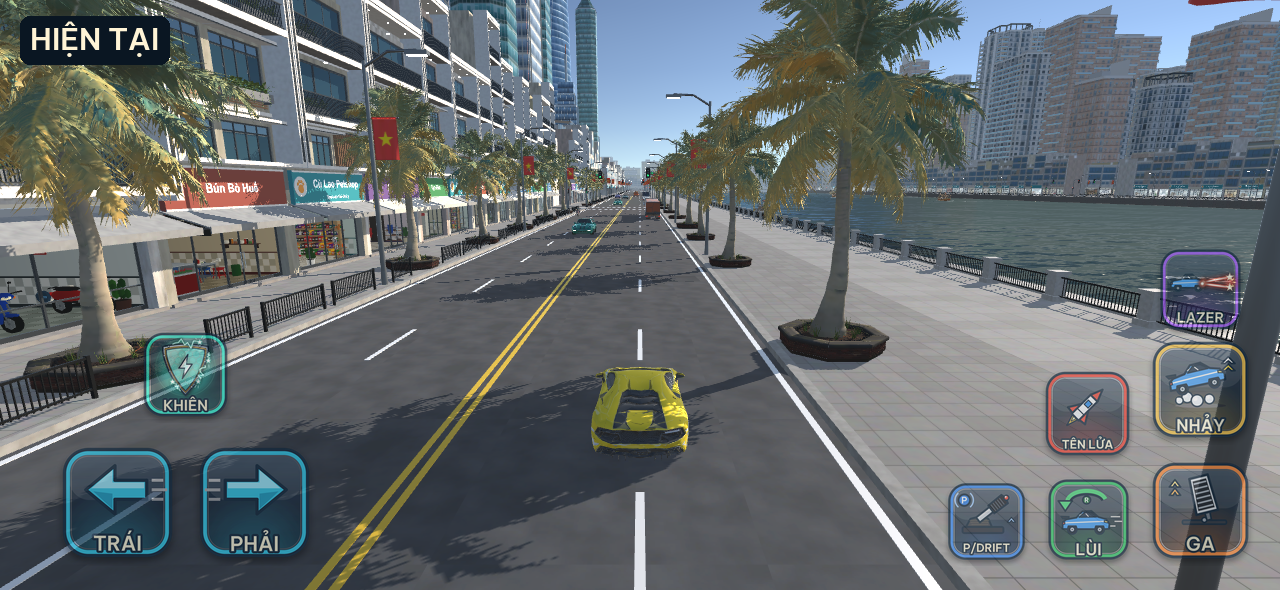
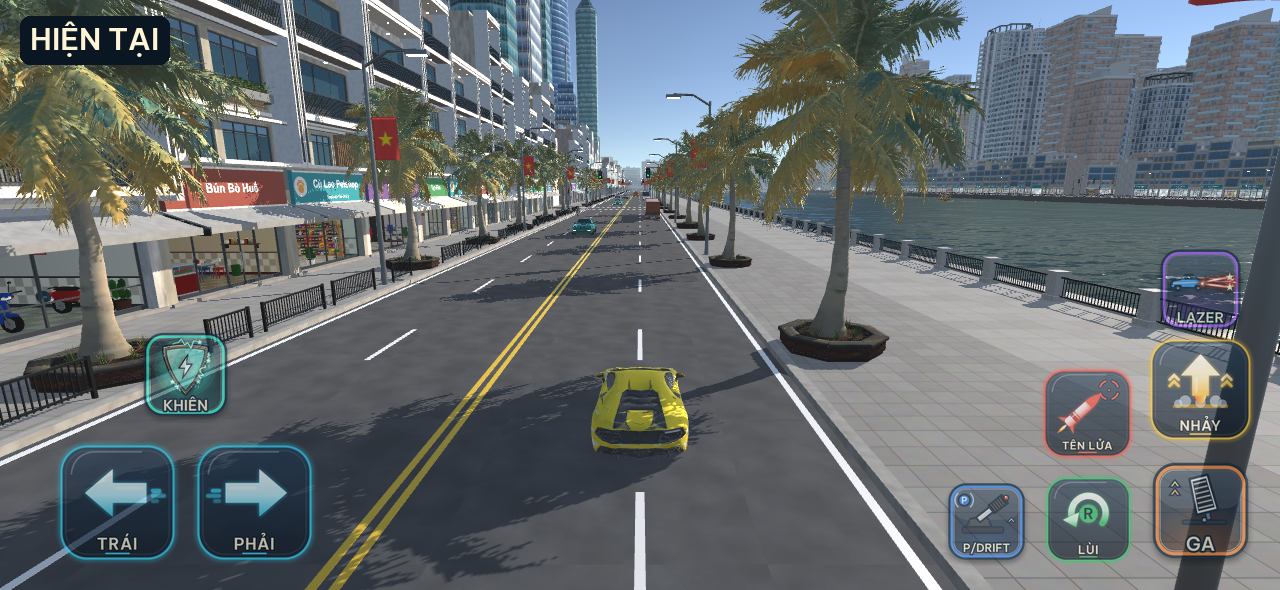
Pho Viet 21.338: style A touch buttons in game; three laser button options
Left/Right/Missile/Jump/Reverse now exported from the SVG mockup (style A, curved R reverse)
via xuat_game.sh; build_touch_controls.py no longer overwrites them. Laser gets three new
designs awaiting the user's pick.

Changed region(s): [[0.8125, 0.5492, 1.0, 0.9763], [0.0312, 0.7322, 0.25, 0.9763]]

diff --git a/ArtSource/Concepts/Buttons-20261123/nut.html b/ArtSource/Concepts/Buttons-20261123/nut.html
@@ -75,7 +75,68 @@ function star(cx, cy, r1, r2, n, rot = 0) {
   for (let i = 0; i < n * 2; i++) { const r = i % 2 ? r2 : r1, a = rot + i * Math.PI / n; p.push((cx + r * Math.cos(a)).toFixed(1) + ',' + (cy + r * Math.sin(a)).toFixed(1)); }
   return p.join(' ');
 }
+// 21.338 — LAZER vẽ lại (người dùng: bản 21.337 «quá xấu»). ?lz=1|2|3
+//   1 «Lõi năng lượng»: quả cầu năng lượng có vành khía, bắn 1 tia lớn + 2 tia mảnh, nổ chớp ở đầu tia.
+//   2 «Súng lazer»: súng khoa học viễn tưởng nhìn ngang, nòng có vòng tản nhiệt, bắn tia sang phải.
+//   3 «Hai tia hội tụ»: 2 thấu kính phát (như 2 đèn pha) bắn 2 tia hội tụ vào tâm vòng ngắm, nổ tung.
+function beam(x1, y1, x2, y2, w) {
+  return `<line x1="${x1}" y1="${y1}" x2="${x2}" y2="${y2}" stroke="#ff2f45" stroke-width="${w * 2.6}" stroke-linecap="round" opacity=".38" filter="url(#soft)"/>
+    <line x1="${x1}" y1="${y1}" x2="${x2}" y2="${y2}" stroke="#ff3b4f" stroke-width="${w}" stroke-linecap="round"/>
+    <line x1="${x1}" y1="${y1}" x2="${x2}" y2="${y2}" stroke="#fff" stroke-width="${Math.max(4, w * .36)}" stroke-linecap="round"/>`;
+}
+function burst(x, y, r) {
+  let s = `<circle cx="${x}" cy="${y}" r="${r * 1.25}" fill="#ff4f5f" opacity=".45" filter="url(#soft)"/>`;
+  s += `<polygon points="${star(x, y, r, r * .32, 8, .2)}" fill="#ffe9a8" stroke="#ff6a2e" stroke-width="5" stroke-linejoin="round"/>`;
+  s += `<circle cx="${x}" cy="${y}" r="${r * .26}" fill="#fff"/>`;
+  [[-.9, -.5], [.4, -1], [1, .3], [-.3, 1]].forEach(([dx, dy], i) => s += `<circle cx="${x + dx * r * 1.45}" cy="${y + dy * r * 1.45}" r="${5 + (i % 2) * 3}" fill="#ffd27a"/>`);
+  return s;
+}
 function iconLaser(P, b) {
+  const v = Q.get('lz') || '1';
+  let s = '';
+  if (v === '1') {
+    s += beam(206, 240, 432, 128, 26);
+    s += beam(206, 240, 420, 214, 9);
+    s += beam(206, 240, 396, 64, 9);
+    s += burst(436, 126, 46);
+    // vành khía quanh lõi
+    s += `<circle cx="170" cy="258" r="96" fill="${b.dark}" fill-opacity=".55" ${P.m.includes('filter') ? 'filter="url(#glow' + MAU + 'laser)"' : ''}/>`;
+    for (let i = 0; i < 8; i++) { const a = i * Math.PI / 4 + .39; s += `<rect x="-14" y="-104" width="28" height="30" rx="8" ${P.m} transform="translate(170 258) rotate(${(a * 180 / Math.PI).toFixed(1)})"/>`; }
+    s += `<circle cx="170" cy="258" r="74" ${P.m}/>`;
+    s += `<circle cx="170" cy="258" r="52" fill="${b.dark}"/>`;
+    s += `<circle cx="170" cy="258" r="40" fill="#ff3b4f" filter="url(#soft)"/>`;
+    s += `<circle cx="170" cy="258" r="30" fill="#ff5a6a"/><circle cx="160" cy="248" r="14" fill="#fff"/>`;
+    s += `<path d="M118,206 A74,74 0 0 1 222,206" fill="none" stroke="#fff" stroke-opacity=".6" stroke-width="8" stroke-linecap="round"/>`;
+  } else if (v === '2') {
+    s += beam(372, 196, 470, 196, 24);
+    s += burst(458, 196, 40);
+    s += `<g>
+      <path d="M150,262 L214,262 L236,350 Q238,366 222,366 L176,366 Q160,366 158,350 Z" ${P.m}/>
+      <path d="M86,180 Q86,150 116,150 L300,150 Q326,150 334,170 L346,206 Q350,228 326,232 L300,236 L300,262 L116,262 Q86,262 86,232 Z" ${P.m}/>
+      <rect x="296" y="174" width="70" height="44" rx="10" ${P.m}/>
+      <rect x="306" y="168" width="12" height="56" rx="6" ${P.a}/><rect x="328" y="168" width="12" height="56" rx="6" ${P.a}/>
+      <circle cx="372" cy="196" r="22" fill="#ff3b4f" stroke="${NAVY}" stroke-width="6"/><circle cx="372" cy="196" r="10" fill="#fff"/>
+      <rect x="112" y="184" width="150" height="26" rx="13" ${P.a}/>
+      <circle cx="138" cy="197" r="7" fill="#fff"/><circle cx="162" cy="197" r="7" fill="#fff" opacity=".6"/>
+      <path d="M110,164 L290,164" stroke="#fff" stroke-opacity=".6" stroke-width="8" stroke-linecap="round"/>
+      <path d="M200,262 Q206,300 186,306" fill="none" stroke="${NAVY}" stroke-width="8" stroke-linecap="round" opacity=".7"/></g>`;
+  } else {
+    // vòng ngắm
+    s += `<circle cx="384" cy="214" r="70" fill="none" stroke="${b.acc}" stroke-width="12" stroke-dasharray="70 40" filter="url(#glow${MAU}laser)"/>`;
+    s += beam(168, 128, 384, 214, 18) + beam(168, 304, 384, 214, 18);
+    s += burst(384, 214, 50);
+    [[128, 304], [128, 128]].forEach(([y0, y1], i) => {
+      const y = i ? 128 : 304;
+      s += `<g transform="translate(130 ${y})">
+        <rect x="-62" y="-50" width="84" height="100" rx="26" ${P.m}/>
+        <circle cx="36" cy="0" r="44" ${P.m}/>
+        <circle cx="38" cy="0" r="30" fill="${b.dark}"/>
+        <circle cx="40" cy="0" r="22" fill="#ff3b4f"/><circle cx="34" cy="-7" r="9" fill="#fff"/></g>`;
+    });
+  }
+  return s;
+}
+function iconLaserOld(P, b) {
   let s = '';
   // đầu phát: khối lục giác + thấu kính, chĩa lên phải
   s += `<g transform="translate(150 300) rotate(-28)">
@@ -134,6 +195,22 @@ function iconJump(P) {
   return s;
 }
 function iconReverse(P, b) {
+  // 21.338: người dùng chọn kiểu cung tròn ngược chiều kim đồng hồ + huy hiệu R (bản đầu của 21.337)
+  if (Q.get('lui') === 'xuong') return iconReverseDown(P, b);
+  const cx = 256, cy = 222, r = 118, a0 = 35 * Math.PI / 180, end = 155 * Math.PI / 180;
+  const x0 = cx + r * Math.cos(a0), y0 = cy + r * Math.sin(a0), xe = cx + r * Math.cos(end), ye = cy + r * Math.sin(end);
+  const d = `M${x0.toFixed(1)},${y0.toFixed(1)} A${r},${r} 0 1 0 ${xe.toFixed(1)},${ye.toFixed(1)}`;
+  let s = '';
+  if (P.under(44)) s += `<path d="${d}" ${P.under(44)}/>`;
+  s += `<path d="${d}" ${P.line(44)}/>`;
+  const tx = Math.sin(end), ty = -Math.cos(end), nx = -ty, ny = tx, L = 84, W = 62;   // đầu mũi tên theo tiếp tuyến cuối cung
+  const tip = [xe + tx * L * .62, ye + ty * L * .62], bl = [xe - tx * L * .38 + nx * W, ye - ty * L * .38 + ny * W], br = [xe - tx * L * .38 - nx * W, ye - ty * L * .38 - ny * W];
+  s += `<polygon points="${[tip, bl, br].map(p => p.map(v => v.toFixed(1)).join(',')).join(' ')}" ${P.m}/>`;
+  s += `<circle cx="${cx}" cy="${cy + 4}" r="62" ${P.a}/>`;
+  s += `<text x="${cx}" y="${cy + 42}" text-anchor="middle" font-family="BVP" font-size="104" fill="${NAVY}">R</text>`;
+  return s;
+}
+function iconReverseDown(P, b) {
   // mũi tên xuống (lùi về sau) + chữ R số lùi trên thân — cùng ngôn ngữ với mũi tên TRÁI/PHẢI/NHẢY
   let s = '';
   s += `<polygon points="256,366 374,236 306,236 306,104 206,104 206,236 138,236" ${P.m}/>`;

diff --git a/ArtSource/Concepts/Buttons-20261123/ghep.py b/ArtSource/Concepts/Buttons-20261123/ghep.py
@@ -55,3 +55,31 @@ y = 0
 for r in rows: tb.paste(r, (0, y)); y += r.height
 tb.save(os.path.join(HERE, 'out', 'bangnut.jpg'), quality=92)
 print('ok')
+
+
+# 21.338 — 3 kiểu LAZER mới (?lz=1|2|3) trên bộ mẫu A đã đưa vào game (raw/game-*.png): python -X utf8 ghep.py lazer
+def compose_laser():
+    names = {1: 'KIỂU 1 · LÕI NĂNG LƯỢNG', 2: 'KIỂU 2 · SÚNG LAZER', 3: 'KIỂU 3 · HAI TIA HỘI TỤ'}
+    game = {'left': 'Left', 'right': 'Right', 'missile': 'Missile', 'jump': 'Jump', 'reverse': 'Reverse'}
+    panels = []
+    for v in (1, 2, 3):
+        img = Image.open(os.path.join(HERE, 'raw', 'nen.png')).convert('RGBA').resize((W, H))
+        for k, box in (('gas', gas), ('stop', stop), ('shield', shield)):
+            put(img, Image.open(os.path.join(RES, f'PV_Btn_{KEEP[k]}.png')), box)
+        for k, box in NEW.items():
+            src = os.path.join(HERE, 'raw', f'A-laser-lz{v}.png') if k == 'laser' else os.path.join(HERE, 'raw', f'game-{game[k]}.png')
+            put(img, Image.open(src), box)
+        # phóng to nút LAZER ở góc trái trên
+        big = Image.open(os.path.join(HERE, 'raw', f'A-laser-lz{v}.png')).convert('RGBA').resize((250, 250), Image.LANCZOS)
+        d = ImageDraw.Draw(img); d.rounded_rectangle((18, 80, 18 + 270, 80 + 270), 18, fill=(20, 26, 32, 215)); img.alpha_composite(big, (28, 90))
+        f = ImageFont.truetype(FONT, 30); t = names[v]
+        d.rounded_rectangle((18, 16, 38 + d.textlength(t, font=f), 64), 10, fill=(10, 22, 34, 225)); d.text((28, 20), t, font=f, fill=(255, 244, 214))
+        panels.append(img.convert('RGB'))
+    sheet = Image.new('RGB', (W, H * 3 + 24), (20, 24, 28))
+    for i, im in enumerate(panels): sheet.paste(im, (0, i * (H + 12)))
+    sheet.save(os.path.join(HERE, 'out', 'lazer-3kieu.jpg'), quality=90)
+    print('ok lazer')
+
+
+if __name__ == '__main__' and len(__import__('sys').argv) > 1 and __import__('sys').argv[1] == 'lazer':
+    compose_laser()

diff --git a/AgentScripts/Buttons21338.cs b/AgentScripts/Buttons21338.cs
@@ -1,0 +1,24 @@
+using UnityEditor;
+using UnityEngine;
+using PhoViet.OpenWorld;
+// 21.338 — nút cảm ứng mẫu A: nhập lại ảnh Resources/TouchControls (xuất ngoài Unity bằng xuat_game.sh) + bật nút cảm ứng để chụp.
+//   Reimport (Edit mode) → Play → Show (bắt đầu lượt, hiện nút, bỏ tạm dừng) → capture_game_view source=screen → End
+public static class Buttons21338
+{
+    public static string Reimport()
+    {
+        foreach (var n in new[] { "Left", "Right", "Missile", "Jump", "Reverse", "Laser" })
+            AssetDatabase.ImportAsset("Assets/PhoViet/Resources/TouchControls/PV_Btn_" + n + ".png", ImportAssetOptions.ForceUpdate | ImportAssetOptions.ForceSynchronousImport);
+        var t = AssetDatabase.LoadAssetAtPath<Texture2D>("Assets/PhoViet/Resources/TouchControls/PV_Btn_Left.png");
+        return "ok " + (t ? t.width + "x" + t.height + " " + t.format : "missing");
+    }
+    public static string Show()
+    {
+        var g = Object.FindAnyObjectByType<OpenWorldGame>(); var p = Object.FindAnyObjectByType<OpenWorldDriver>();
+        OpenWorldWeather.ForceNext = false; g.GoReady(); g.StartRun();
+        foreach (var pol in Object.FindObjectsByType<OpenWorldPolice>(FindObjectsInactive.Exclude)) pol.enabled = false;
+        p.testTouchUI = true; EditorApplication.isPaused = false;
+        return "mode " + g.Mode + " touch " + p.TouchControlsVisible;
+    }
+    public static void End() { var p = Object.FindAnyObjectByType<OpenWorldDriver>(); if (p) p.testTouchUI = false; }
+}

diff --git a/ArtSource/UI/build_touch_controls.py b/ArtSource/UI/build_touch_controls.py
@@ -378,12 +378,18 @@ def build_button(name, text, accent_hex, icon, size_frac, final=FINAL):
     return img.resize((final, final), Image.LANCZOS)
 
 
+# 21.338 (người dùng chọn mẫu A «Kính neon»): 5 nút này nay xuất từ ArtSource/Concepts/Buttons-20261123/nut.html (xuat_game.sh),
+# KHÔNG ghi đè ở đây nữa. Chỉ GA và P/DRIFT còn vẽ bằng script này.
+SVG_BUTTONS = {'Left', 'Right', 'Reverse', 'Jump', 'Missile'}
+
+
 def main():
     os.makedirs(OUT, exist_ok=True)
     # 21.270: vô lăng thay bằng 2 nút mũi tên trái/phải (build_wheel giữ lại để tham khảo, không xuất nữa).
     sheet = Image.new('RGBA', (330 * len(BUTTONS), 320), (70, 80, 90, 255))
     for i, (name, text, acc, icon, sf) in enumerate(BUTTONS):
-        im = build_button(name, text, acc, icon, sf); im.save(os.path.join(OUT, 'PV_Btn_%s.png' % name), optimize=True)
+        im = build_button(name, text, acc, icon, sf)
+        if name not in SVG_BUTTONS: im.save(os.path.join(OUT, 'PV_Btn_%s.png' % name), optimize=True)
         sheet.alpha_composite(im.resize((320, 320), Image.LANCZOS), (i * 330, 0))
     prev = os.path.join(ROOT, 'ArtSource', 'UI', 'touch_controls_preview.png')
     sheet.save(prev)

diff --git a/BANGIAO.md b/BANGIAO.md
@@ -4,7 +4,7 @@
 >
 > Ai vừa sửa/thêm chức năng, build hoặc phát hành **phải cập nhật file này trong cùng công việc** (mục 1–3 và 6), song song với ghi chi tiết vào `huongdan.md`.
 
-Cập nhật lần cuối: **23/11/2026 — Claude Code (21.337 mẫu nút mới chờ chọn; 21.336 xe tăng nổ tung, xe vàng, NPC né sét — source, chưa phát hành; 1.92.0 = 21.327–21.331)**
+Cập nhật lần cuối: **23/11/2026 — Claude Code (21.338 5 nút mẫu A vào game, LAZER chờ chọn kiểu; 21.337 mẫu nút; 21.336 xe tăng nổ tung, xe vàng, NPC né sét — source, chưa phát hành; 1.92.0 = 21.327–21.331)**
 
 ## 1. Trạng thái hiện tại
 
@@ -63,6 +63,7 @@ Cập nhật lần cuối: **23/11/2026 — Claude Code (21.337 mẫu nút mới
 
 ## 2. Việc vừa làm gần nhất (mới nhất ở trên)
 
+- **21.338 (source, chưa phát hành):** người dùng chọn mẫu A «Kính neon» → 5 nút TRÁI/PHẢI/TÊN LỬA/NHẢY/LÙI (LÙI kiểu cung tròn + R) đã thay `Resources/TouchControls/PV_Btn_*.png` bằng `ArtSource/Concepts/Buttons-20261123/xuat_game.sh`; `build_touch_controls.py` không ghi đè 5 nút này nữa. 3 kiểu LAZER mới (`?lz=1|2|3`, `out/lazer-3kieu.jpg`). Chi tiết `huongdan.md` 21.338.
 - **21.337 (mẫu, chưa vào game):** 3 mẫu vẽ lại 6 nút TRÁI/PHẢI/LAZER/TÊN LỬA/NHẢY/LÙI không có ô tô — A «Kính neon», B «Tem đua», C «Huy hiệu tròn» — `ArtSource/Concepts/Buttons-20261123/` (`nut.html`, `render.sh`, `ghep.py`, `out/tonghop.jpg`). Chi tiết `huongdan.md` 21.337.
 - **21.336 (source, chưa phát hành):** xe tăng trúng tên lửa/Lazer nổ tung thành mảnh và biến mất (`DestroyTank`, gốc dọn sau 2 s); xe người chơi màu vàng (`AgentScripts/recolor_player_yellow.py` tô lại `PV_BlueSupercar_Palette.png`); xe NPC nhận biết vòng cảnh báo sét để phanh trước vòng, vọt qua hoặc thoát ra (`OpenWorldTraffic.DodgeStrikes`, `OpenWorldWeather` gọi `WarnStrike`). Thử 40 đợt sét: NPC trúng 9 → 3 (còn lại là xe kẹt đứng yên). `AgentScripts/Test21336.cs`. Chi tiết `huongdan.md` 21.336.
 - **21.335 — web 1.92.0 (vỏ mới):** sửa nút Cài tràn chữ khi điện thoại xoay ngang (`#install{font-size:0}` cho mọi điện thoại), bỏ vạch đỏ cạnh logo, «Bản cập nhật» thu gọn khi mở trang (bỏ `open`). Cache `e54a7b98c09942d6`; commit `fb9f4b7`, Pages `45133572057`, live 38/38 khớp. Chi tiết `huongdan.md` 21.335.
@@ -508,7 +509,7 @@ Cập nhật lần cuối: **23/11/2026 — Claude Code (21.337 mẫu nút mới
 
 ## 3. Đang dở / cần người dùng quyết
 
-- **21.337 chờ chọn mẫu nút (A/B/C):** chọn xong → xuất 6 ảnh `Resources/TouchControls/PV_Btn_*.png` 512² từ `nut.html` (Chrome headless, nền trong suốt), thử Simulator; hỏi đổi theo GA/P/DRIFT/KHIÊN + ảnh nút trang chủ không.
+- **21.338 chờ chọn kiểu LAZER (1 lõi năng lượng / 2 súng lazer / 3 hai tia hội tụ):** chọn xong → `cd ArtSource/Concepts/Buttons-20261123 && sh xuat_game.sh laser <kiểu>` → `run_script AgentScripts/Buttons21338.cs Buttons21338.Reimport`. Rồi hỏi vẽ lại GA/P/DRIFT/KHIÊN theo mẫu A + ảnh nút trang chủ không.
 - **21.336 chưa phát hành:** xe tăng nổ tung, xe vàng, NPC né sét đã commit source; cần «Phát hành» để lên web (dùng `ReleaseBuild.cs`). Hình xe trên nút NHẢY và ảnh nút trang chủ vẫn là xe xanh — hỏi người dùng có đổi sang vàng không.
 - **Chờ người dùng (1.92.0):** thử trên iPhone: trang chủ mẫu C (chạm LÊN XE THÔI, bánh răng, Cách chơi, Thêm vào màn hình), Ga tự động, 2 tên lửa, Lazer bấm 1 lần, lái gốc.
 - **Lái gốc tạm thời (21.329, có trong web 1.92.0):** `classicSteer = true` để người dùng so sánh. Chờ người dùng nói giữ hay trả lại lái 21.316–21.319 (`classicSteer = false`).
@@ -731,7 +732,7 @@ Cập nhật lần cuối: **23/11/2026 — Claude Code (21.337 mẫu nút mới
 | Khiên năng lượng (nút KHIÊN, 6 s / hồi 10 s từ 21.313, phá lưới) + trúng đạn cháy nổ | **21.312** | `Scripts/OpenWorld/OpenWorldShield.cs`, `OpenWorldNetShatter.cs`, `OpenWorldDriver.cs` (`ShieldRect`, `Shielded`, `ShieldBump`, `Ignite`, `BlastUp`), `OpenWorldPoliceNet.cs` (`ShatterIfOnPlayer`), `OpenWorldHazards.cs` (`Explode`), `OpenWorldGame.cs` (`ShieldButton`), shader `OpenWorld/Shaders/OpenWorldShield.shader`, `Resources/Khien/`; Blender `ArtSource/Blender/OpenWorld/build_khien.py` → `PhoViet_OW_Khien.blend`; nút `ArtSource/UI/build_shield_button.py`; thử `AgentScripts/Shield21312.cs` |
 | Lái xe người chơi (vô lăng ảo, mô hình ô tô thật, trượt/nghiêng, camera) | **21.316–21.316e** | `Scripts/OpenWorld/OpenWorldDriver.cs` (FixedUpdate: `steerVal`, `wheelBase`, `gripG`, `MoveDir`, `UpdateBodyRoll`), `OpenWorldCamera.cs` (`headingLag`); thử `AgentScripts/SteerFeel21316.cs`, `Corner21316e.cs`, độ nhạy `Resp21319.cs` (21.319); ghi Play thật `Editor/PhoVietPlayProbe.cs` (cờ `Captures/steer21316/probe.on`); khói lốp + tiếng rít `OpenWorldTireFx.cs` (21.316g) |
 | Xe tăng trúng tên lửa/Lazer nổ tung + biến mất | **21.336** | `OpenWorldHazards.Weapons.cs` `DestroyTank` (dùng `LaserBlast`), dọn gốc 2 s trong `OpenWorldHazards.cs` |
-| Mẫu nút cảm ứng mới (SVG → PNG 512) | **21.337** | `ArtSource/Concepts/Buttons-20261123/` (`nut.html`, `render.sh`, `ghep.py`) |
+| Nút cảm ứng mẫu A «Kính neon» (SVG → PNG 512): TRÁI/PHẢI/TÊN LỬA/NHẢY/LÙI (+ LAZER chờ chọn) | **21.337–21.338** | `ArtSource/Concepts/Buttons-20261123/` (`nut.html`, `xuat_game.sh`, `render.sh`, `ghep.py`), `Resources/TouchControls/`, `AgentScripts/Buttons21338.cs`; GA/P/DRIFT vẫn `ArtSource/UI/build_touch_controls.py` |
 | Màu sơn xe người chơi (vàng) | **21.336** | `Art/PlayerCar/PV_BlueSupercar_Palette.png`, `AgentScripts/recolor_player_yellow.py`, gốc xanh `ArtSource/Concepts/XeVang-20261123/` |
 | Lửa cháy (xe/xác xe tăng/trực thăng/tàu/lazer) | 21.312/21.258 (21.323 thử lửa Blender — **đã hoàn tác**, không dùng) | `OpenWorldHazards.Weapons.cs` `BurnFx` (ảnh nổ `Art/TankFx/PV_TankExplosion.mat`) |
 | Thời tiết mưa giông + sét (tung mưa 30 % / thường 70 % từ 21.327, 2 phút, đợt 7 tia/15 s, vòm mây; NPC né sét 21.336) | **21.317**, 21.336 | `Scripts/OpenWorld/OpenWorldWeather.cs` (`Roll`, `BeginRun`, `PickTargets`, `StartVolley`→`WarnStrike`, `Fire`, `Apply`), `OpenWorldHazards.Weather.cs` (`LightningBlast`, `CoastPoint`), `OpenWorldTraffic.LightningAround`, `OpenWorldTraffic.DodgeStrikes` (né sét, cờ `dodgeLightning`), thử `AgentScripts/Test21336.cs`, `OpenWorldGame` (`GoReady`/`StartRun` gọi tung); shader `OpenWorld/Shaders/OpenWorldLightning.shader`, `OpenWorldRain.shader`; `Resources/ThoiTiet/`; Blender `ArtSource/Blender/OpenWorld/build_mua_set.py` → `PhoViet_OW_ThoiTiet.blend`; vật liệu `AgentScripts/WeatherAssets21317.cs`; thử `AgentScripts/Weather21317.cs` |

diff --git a/huongdan.md b/huongdan.md
@@ -6271,3 +6271,20 @@ Thiết kế cửa sổ của mục này đã được khôi phục về mẫu t
   - **C «Huy hiệu tròn»:** nút tròn vành kim loại, lòng tối, vòng màu nhấn phát sáng, biểu tượng nổi khối, nhãn chạy cong.
 - **Giữ nguyên:** GA, P/DRIFT, KHIÊN.
 - **Chờ người dùng chọn mẫu.** Sau đó vẽ ảnh thật `Resources/TouchControls/PV_Btn_{Left,Right,Laser,Missile,Jump,Reverse}.png` 512² (thay phần vẽ trong `ArtSource/UI/build_touch_controls.py` / `build_laser_button.py`), thử Simulator rồi hỏi có đổi theo GA/P/DRIFT/KHIÊN và ảnh nút trang chủ không.
+
+## 21.338. Đưa 5 nút mẫu A «Kính neon» vào game; 3 kiểu nút LAZER mới để chọn (23/11/2026, Claude Code)
+
+- **Người dùng:** chọn mẫu A, gửi ảnh bộ 6 nút. Nút LÙI trong ảnh là kiểu mũi tên cong có chữ R (bản đầu của 21.337). Nút LAZER còn quá xấu, cần vẽ lại.
+- **Đã vào game:** 5 nút TRÁI, PHẢI, TÊN LỬA, NHẢY, LÙI.
+  - Xuất từ `ArtSource/Concepts/Buttons-20261123/nut.html?mau=A` bằng `xuat_game.sh` (Chrome headless, 512², nền trong suốt) → `Assets/PhoViet/Resources/TouchControls/PV_Btn_{Left,Right,Missile,Jump,Reverse}.png`. `.meta` giữ nguyên (RGBA32 không nén + mipmap).
+  - Nút LÙI về kiểu cung tròn + R (`iconReverse`). Kiểu mũi tên xuống vẫn giữ được bằng `?lui=xuong`.
+  - `ArtSource/UI/build_touch_controls.py` không ghi đè 5 nút này nữa (`SVG_BUTTONS`); chỉ còn vẽ GA và P/DRIFT.
+  - Code vẽ/bố cục nút không đổi.
+- **LAZER vẽ lại, 3 kiểu (`nut.html?mau=A&nut=laser&lz=1|2|3`):**
+  1. «Lõi năng lượng»: quả cầu năng lượng có vành khía, bắn 1 tia lớn + 2 tia mảnh, nổ chớp ở đầu tia.
+  2. «Súng lazer»: súng khoa học viễn tưởng nhìn ngang, nòng có vòng tản nhiệt.
+  3. «Hai tia hội tụ»: 2 thấu kính (như 2 đèn pha) bắn 2 tia vào tâm vòng ngắm, đúng cách Lazer bắn trong game.
+  - Ảnh so sánh `out/lazer-3kieu.jpg` (`ghep.py lazer`). Kiểu 21.337 giữ ở `iconLaserOld`.
+- **Kiểm tra:** `AgentScripts/Buttons21338.cs` (`Reimport` → Play → `Show`). Unity nhập 512 × 512 RGBA32. Ảnh `out/unity-mauA-21338.png` cho thấy nút mới hiện đúng, console không lỗi.
+  - Editor máy tính dùng bố cục máy tính (NHẢY chồng dưới GA), như trước. Bố cục điện thoại xem ở ảnh ghép.
+- **Chờ người dùng chọn kiểu LAZER**, rồi chạy `sh xuat_game.sh laser <kiểu>` và `Buttons21338.Reimport`. Sau đó hỏi có vẽ lại GA/P/DRIFT/KHIÊN cùng mẫu A và ảnh nút trang chủ (`controls/btn-*.png`) không. Chưa phát hành.
